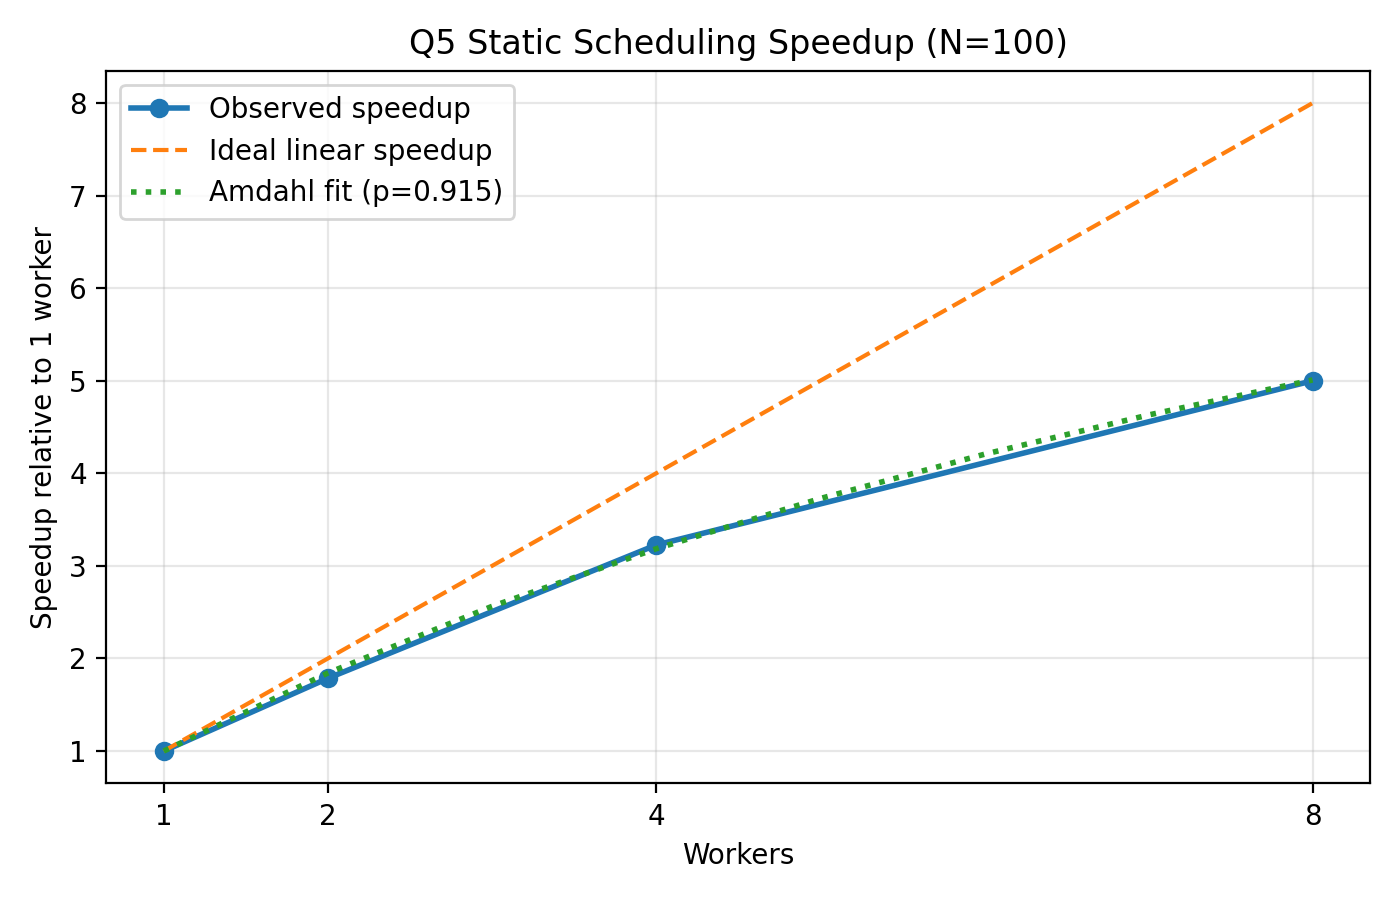
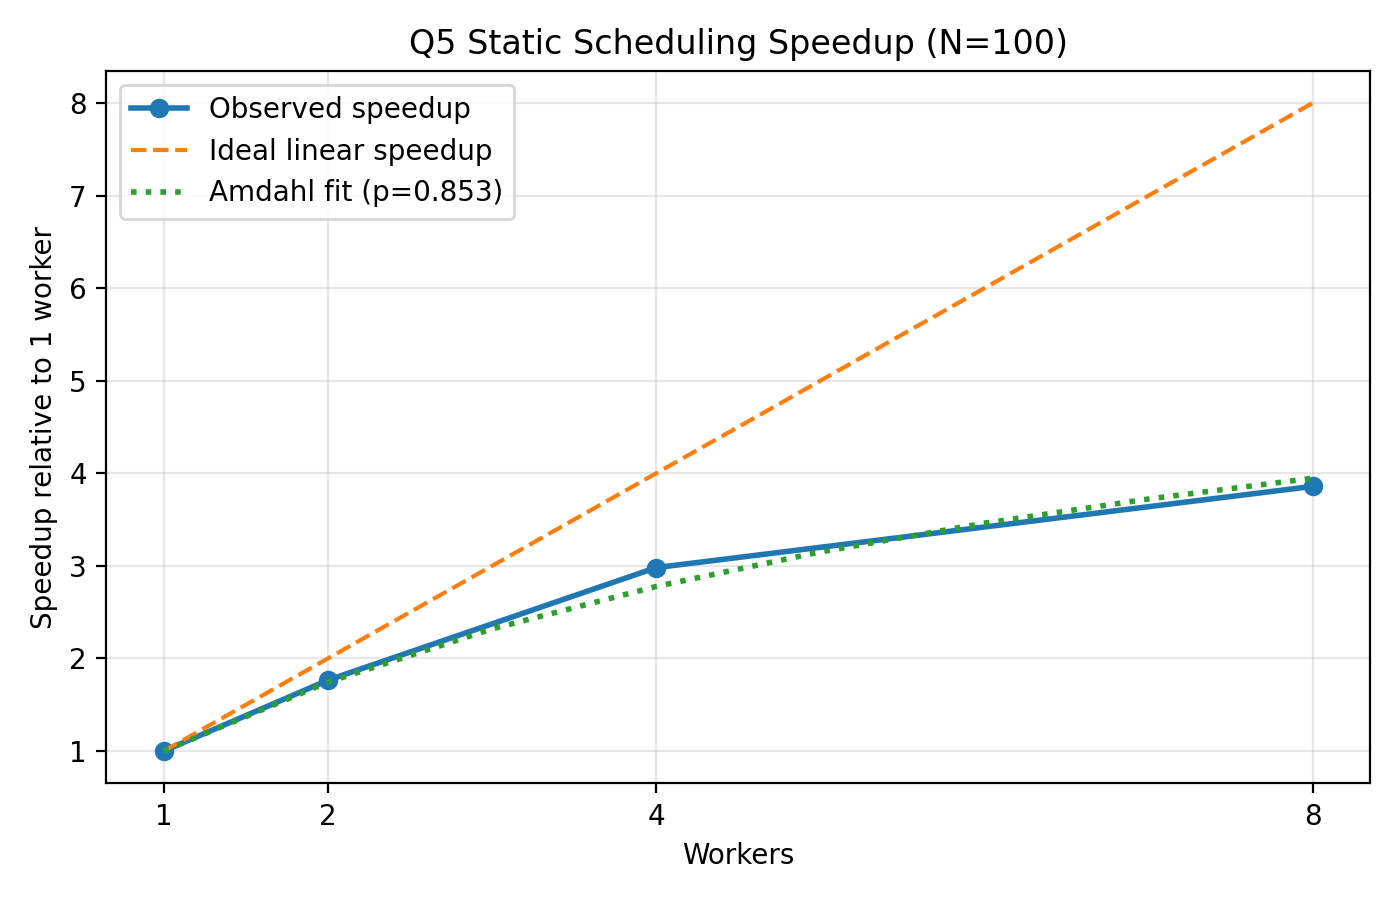
opgave 5 færdig

diff --git a/scripts/q5_analysis.py b/scripts/q5_analysis.py
@@ -33,8 +33,14 @@ def parse_args():
     parser.add_argument(
         "--batch-output-dir",
         type=Path,
-        default=Path("batch_output"),
+        default=Path("reports"),
         help="Directory containing HPC .out logs with timing rows.",
+    )
+    parser.add_argument(
+        "--batch-output-file",
+        type=Path,
+        default=None,
+        help="Specific HPC .out file to parse for timings. Overrides directory auto-discovery.",
     )
     parser.add_argument(
         "--timings",
@@ -123,6 +129,19 @@ def parse_batch_output_timings(batch_output_dir):
     return {workers: min(samples) for workers, samples in timings.items()}
 
 
+def parse_batch_output_file(path):
+    timings = {}
+    with path.open() as f:
+        for line in f:
+            match = TIME_ROW_PATTERN.match(line)
+            if not match:
+                continue
+            workers = int(match.group("workers"))
+            elapsed = float(match.group("elapsed"))
+            timings[workers] = elapsed
+    return timings
+
+
 def read_csv_rows(path):
     with path.open(newline="") as f:
         reader = csv.reader(f, skipinitialspace=True)
@@ -204,8 +223,9 @@ def build_analysis(runs, timings, dataset_size):
     speedups = {workers: t1 / timings[workers] for workers in workers_sorted}
     efficiencies = {workers: speedups[workers] / workers for workers in workers_sorted}
 
-    fitted_p = fit_parallel_fraction(speedups)
-    theoretical_max = math.inf if fitted_p >= 1.0 else 1.0 / (1.0 - fitted_p)
+    fitted_f = fit_parallel_fraction(speedups)
+    serial_b = 1.0 - fitted_f
+    theoretical_max = math.inf if fitted_f >= 1.0 else 1.0 / (1.0 - fitted_f)
 
     fastest_workers = min(workers_sorted, key=lambda workers: timings[workers])
     fastest_time = timings[fastest_workers]
@@ -221,7 +241,8 @@ def build_analysis(runs, timings, dataset_size):
         "timings": timings,
         "speedups": speedups,
         "efficiencies": efficiencies,
-        "parallel_fraction": fitted_p,
+        "parallel_fraction": fitted_f,
+        "serial_fraction": serial_b,
         "theoretical_max_speedup": theoretical_max,
         "fastest_workers": fastest_workers,
         "fastest_time": fastest_time,
@@ -282,14 +303,23 @@ def write_summary(analysis, validation, summary_path, plot_path):
     lines.append(f"  Plot saved to {plot_path}")
     lines.append("")
     lines.append("b) Estimated parallel fraction from Amdahl's law")
+    lines.append("  Slide notation:")
+    lines.append("    S(p) = 1 / ((1 - F) + F/p) = 1 / (B + (1 - B)/p)")
+    lines.append("    B = 1 - F")
+    lines.append("    S(infinity) = 1 / (1 - F) = 1 / B")
     lines.append(
-        f"  Parallel fraction p ~= {analysis['parallel_fraction']:.4f} "
+        f"  Estimated F ~= {analysis['parallel_fraction']:.4f} "
         f"({analysis['parallel_fraction'] * 100.0:.1f}% parallelized)"
+    )
+    lines.append(
+        f"  Estimated B ~= {analysis['serial_fraction']:.4f} "
+        f"({analysis['serial_fraction'] * 100.0:.1f}% serial)"
     )
     lines.append("")
     lines.append("c) Theoretical maximum speed-up and achieved fraction")
     lines.append(
-        f"  Theoretical maximum speedup = {analysis['theoretical_max_speedup']:.3f}x"
+        f"  Theoretical maximum speedup S(infinity) = 1/B = "
+        f"{analysis['theoretical_max_speedup']:.3f}x"
     )
     lines.append(
         f"  Best observed speedup = {analysis['achieved_max_speedup']:.3f}x "
@@ -334,6 +364,8 @@ def main():
         timings = parse_manual_timings(args.timings)
     elif args.timings_csv:
         timings = parse_timings_csv(args.timings_csv)
+    elif args.batch_output_file:
+        timings = parse_batch_output_file(args.batch_output_file)
     else:
         timings = parse_batch_output_timings(args.batch_output_dir)
 
